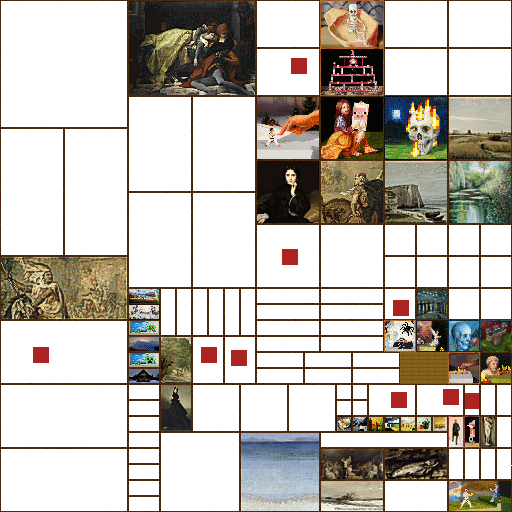
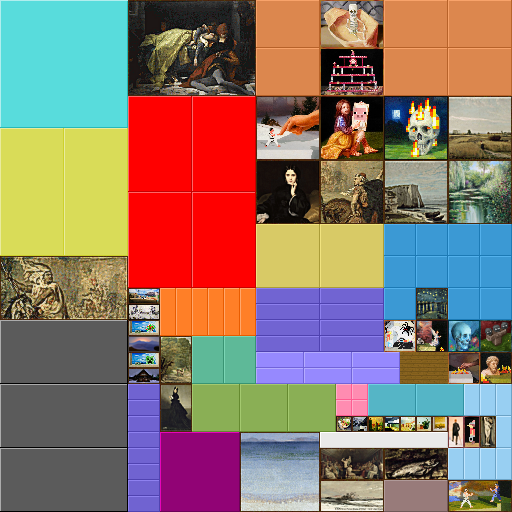
Added New Template "mediumpics", Fixed Up Old Images
mediumpics contains large numbers of stock sized paintings, without the
strange strip sizes of tinypics.  512x512 pixel, 46 1x1, 22 2x1, 64 2x2,
10 1x2, 18 3x2, 16 2x3, 6 2x4, 10 4x2, 5 1x3, 9 3x3, 8 4x3, 8 4x4

Older images had their blank spaces replaced by blocks with a similar
aesthetic to tinypics.  The vanilla paintings placed in many of them had
a strange compression applied to them as well, that I fixed, examples
here: http://i.imgur.com/v7CSk1S.png http://i.imgur.com/yPlqJxC.png , in
both the right image is from vanilla, and the left from new_insane and
gibea respectively.  gibea was saved as a jpg with a png name (???), and
if I had to guess you took the vanilla pictures from it and transplanted
them into the other images.

diff --git a/subaraki/paintings/sets/PaintingsMedium.java b/subaraki/paintings/sets/PaintingsMedium.java
@@ -1,0 +1,96 @@
+package subaraki.paintings.sets;
+
+import net.minecraftforge.common.util.EnumHelper;
+
+public class PaintingsMedium
+{
+	private static int i = 0;
+
+	public static void addPaintings()
+	{
+		PaintingIgnore.ignoreVanillaPaintings();
+
+	/*
+	 * EnumHelper.addArt(String enum id, String name, int sizeX, int sixeY,   int topleftcornerX, int topleftcornerY);
+	 *
+	 * 	for(int y = 0; y <= (num Y - 1); y++)
+	 * 		for(int x = 1; x <= num X; x++)
+	 * 			EnumHelper.addArt("EnumArt_" + i, "ptg_XxY_"+(x+(y*num X)), X, Y, offsetX + X*x, offsetY + Y*y);i++;
+	 *
+	 * 	for(int x = 1; x <= num X; x++)
+	 * 		EnumHelper.addArt("EnumArt_" + i, "ptg_XxY_"+(x), X, Y, offsetX + X*x, offsetY);i++;
+	 *
+	 */
+
+		for(int y = 0; y <= 1; y++)
+		{
+			for(int x = 1; x <= 23; x++)
+			{
+				EnumHelper.addArt("EnumArt_" + i, "ptg_1x1_"+(x+(y*23)), 16, 16, 16*(x-1), 16*y);i++;
+			}
+		}
+		for(int y = 0; y <= 1; y++)
+		{
+			for(int x = 1; x <= 3; x++)
+			{
+				EnumHelper.addArt("EnumArt_" + i, "ptg_2x1_"+(x+(y*23)), 32, 16, 400+(32*x), 16*y);i++;
+			}
+		}
+		for(int x = 1; x <= 16; x++)
+		{
+			EnumHelper.addArt("EnumArt_" + i, "ptg_2x1_"+(x+6), 32, 16, 32*(x-1), 32);i++;
+		}
+		for(int y = 0; y <= 3; y++)
+		{
+			for(int x = 1; x <= 16; x++)
+			{
+				EnumHelper.addArt("EnumArt_" + i, "ptg_2x2_"+(x+(y*16)), 32, 32, 32*(x-1), 48+(32*y));i++;
+			}
+		}
+		for(int y = 0; y <= 1; y++)
+		{
+			for(int x = 1; x <= 5; x++)
+			{
+				EnumHelper.addArt("EnumArt_" + i, "ptg_1x2_"+(x+(y*5)), 16, 32, 16*(x-1), 176+(32*y));i++;
+			}
+		}
+		for(int y = 0; y <= 1; y++)
+		{
+			for(int x = 1; x <= 9; x++)
+			{
+				EnumHelper.addArt("EnumArt_" + i, "ptg_3x2_"+(x+(y*9)), 48, 32, 32+(48*x), 176+(32*y));i++;
+			}
+		}
+		for(int x = 1; x <= 16; x++)
+		{
+			EnumHelper.addArt("EnumArt_" + i, "ptg_2x3_"+(x), 32, 48, 32*(x-1), 240);i++;
+		}
+		for(int x = 1; x <= 6; x++)
+		{
+			EnumHelper.addArt("EnumArt_" + i, "ptg_2x4_"+(x), 32, 64, 32*(x-1), 288);i++;
+		}
+		for(int y = 0; y <= 1; y++)
+		{
+			for(int x = 1; x <= 5; x++)
+			{
+				EnumHelper.addArt("EnumArt_" + i, "ptg_4x2_"+(x+(y*5)), 64, 32, 128+(64*x), 288+(32*y));i++;
+			}
+		}
+		for(int x = 1; x <= 5; x++)
+		{
+			EnumHelper.addArt("EnumArt_" + i, "ptg_1x3_"+(x), 16, 48, 16*(x-1), 352);i++;
+		}
+		for(int x = 1; x <= 9; x++)
+		{
+			EnumHelper.addArt("EnumArt_" + i, "ptg_3x3_"+(x), 48, 48, 32+(48*x), 352);i++;
+		}
+		for(int x = 1; x <= 8; x++)
+		{
+			EnumHelper.addArt("EnumArt_" + i, "ptg_4x3_"+(x), 64, 48, 64*(x-1), 400);i++;
+		}
+		for(int x = 1; x <= 8; x++)
+		{
+			EnumHelper.addArt("EnumArt_" + i, "ptg_4x4_"+(x), 64, 64, 64*(x-1), 488);i++;
+		}
+	}
+}

diff --git a/subaraki/paintings/mod/Paintings.java b/subaraki/paintings/mod/Paintings.java
@@ -17,6 +17,7 @@ import subaraki.paintings.mod.server.proxy.CommonProxy;
 import subaraki.paintings.sets.PaintingsGibea;
 import subaraki.paintings.sets.PaintingsInsane;
 import subaraki.paintings.sets.PaintingsMassive;
+import subaraki.paintings.sets.PaintingsMedium;
 import subaraki.paintings.sets.PaintingsNewInsane;
 import subaraki.paintings.sets.PaintingsSphax;
 import subaraki.paintings.sets.PaintingsTiny;
@@ -26,7 +27,7 @@ public class Paintings
 {
 
 	public static final String MODID = "morepaintings";
-	public static final String VERSION = "1.10.2-3.2.0.1";
+	public static final String VERSION = "1.10.2-3.2.0.2";
 	public static final String NAME = "Paintings++";
 
 	@SidedProxy(serverSide="subaraki.paintings.mod.server.proxy.CommonProxy", clientSide="subaraki.paintings.mod.client.proxy.ClientProxy")
@@ -59,6 +60,7 @@ public class Paintings
 		case "tinypics": PaintingsTiny.addPaintings(); break;
 		case "new_insane": PaintingsNewInsane.addPaintings(); break;
 		case "massive": PaintingsMassive.addPaintings(); break;
+		case "mediumpics": PaintingsMedium.addPaintings(); break;
 		}
 
 

diff --git a/subaraki/paintings/config/ConfigurationHandler.java b/subaraki/paintings/config/ConfigurationHandler.java
@@ -23,7 +23,7 @@ public class ConfigurationHandler
 
 	private void loadSettings(Configuration config)
 	{
-		config.addCustomCategoryComment("Painting Mode", "gibea, sphax, insane, tinypics, new_insane or massive");
+		config.addCustomCategoryComment("Painting Mode", "gibea, sphax, insane, tinypics, mediumpics, new_insane or massive");
 
 		String paintingTexture = config.getString("name", "Painting Mode", "gibea", "Texture").toLowerCase();
 
@@ -34,6 +34,7 @@ public class ConfigurationHandler
 		case "tinypics":
 		case "new_insane":
 		case "massive":
+		case "mediumpics":
 			texture = paintingTexture;
 			break;
 

diff --git a/subaraki/paintings/mod/client/RenderPaintingLate.java b/subaraki/paintings/mod/client/RenderPaintingLate.java
@@ -34,6 +34,7 @@ public class RenderPaintingLate extends Render implements IRenderFactory
 		case "insane":
 		case "tinypics":
 		case "new_insane":
+		case "mediumpics":
 			return 512.0F;
 		case "massive":
 			return 1008.0F;
